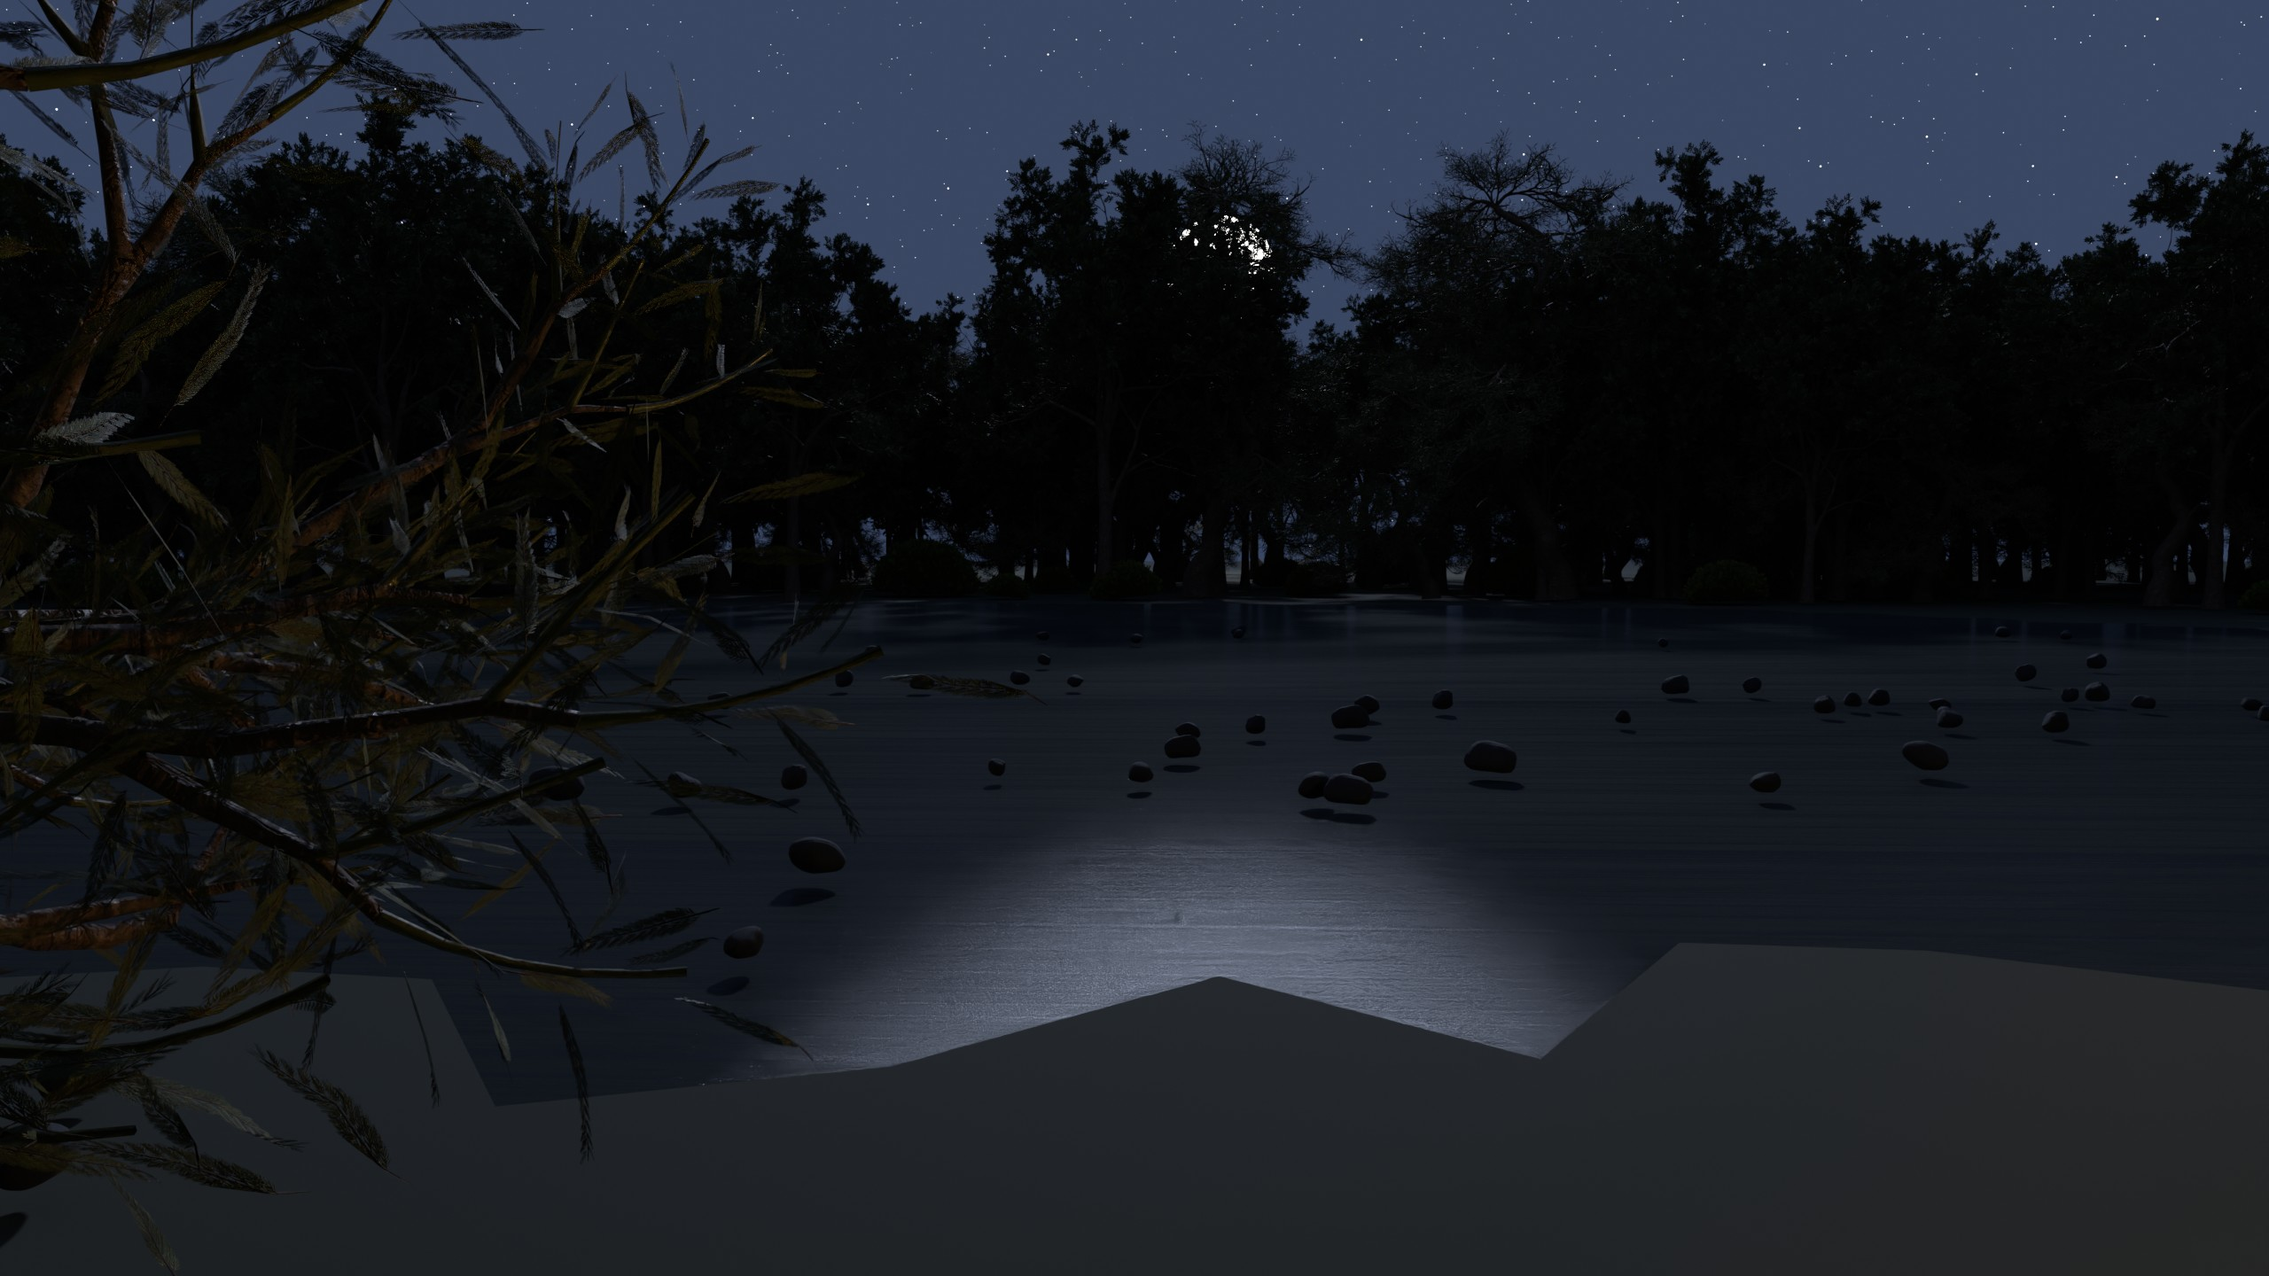
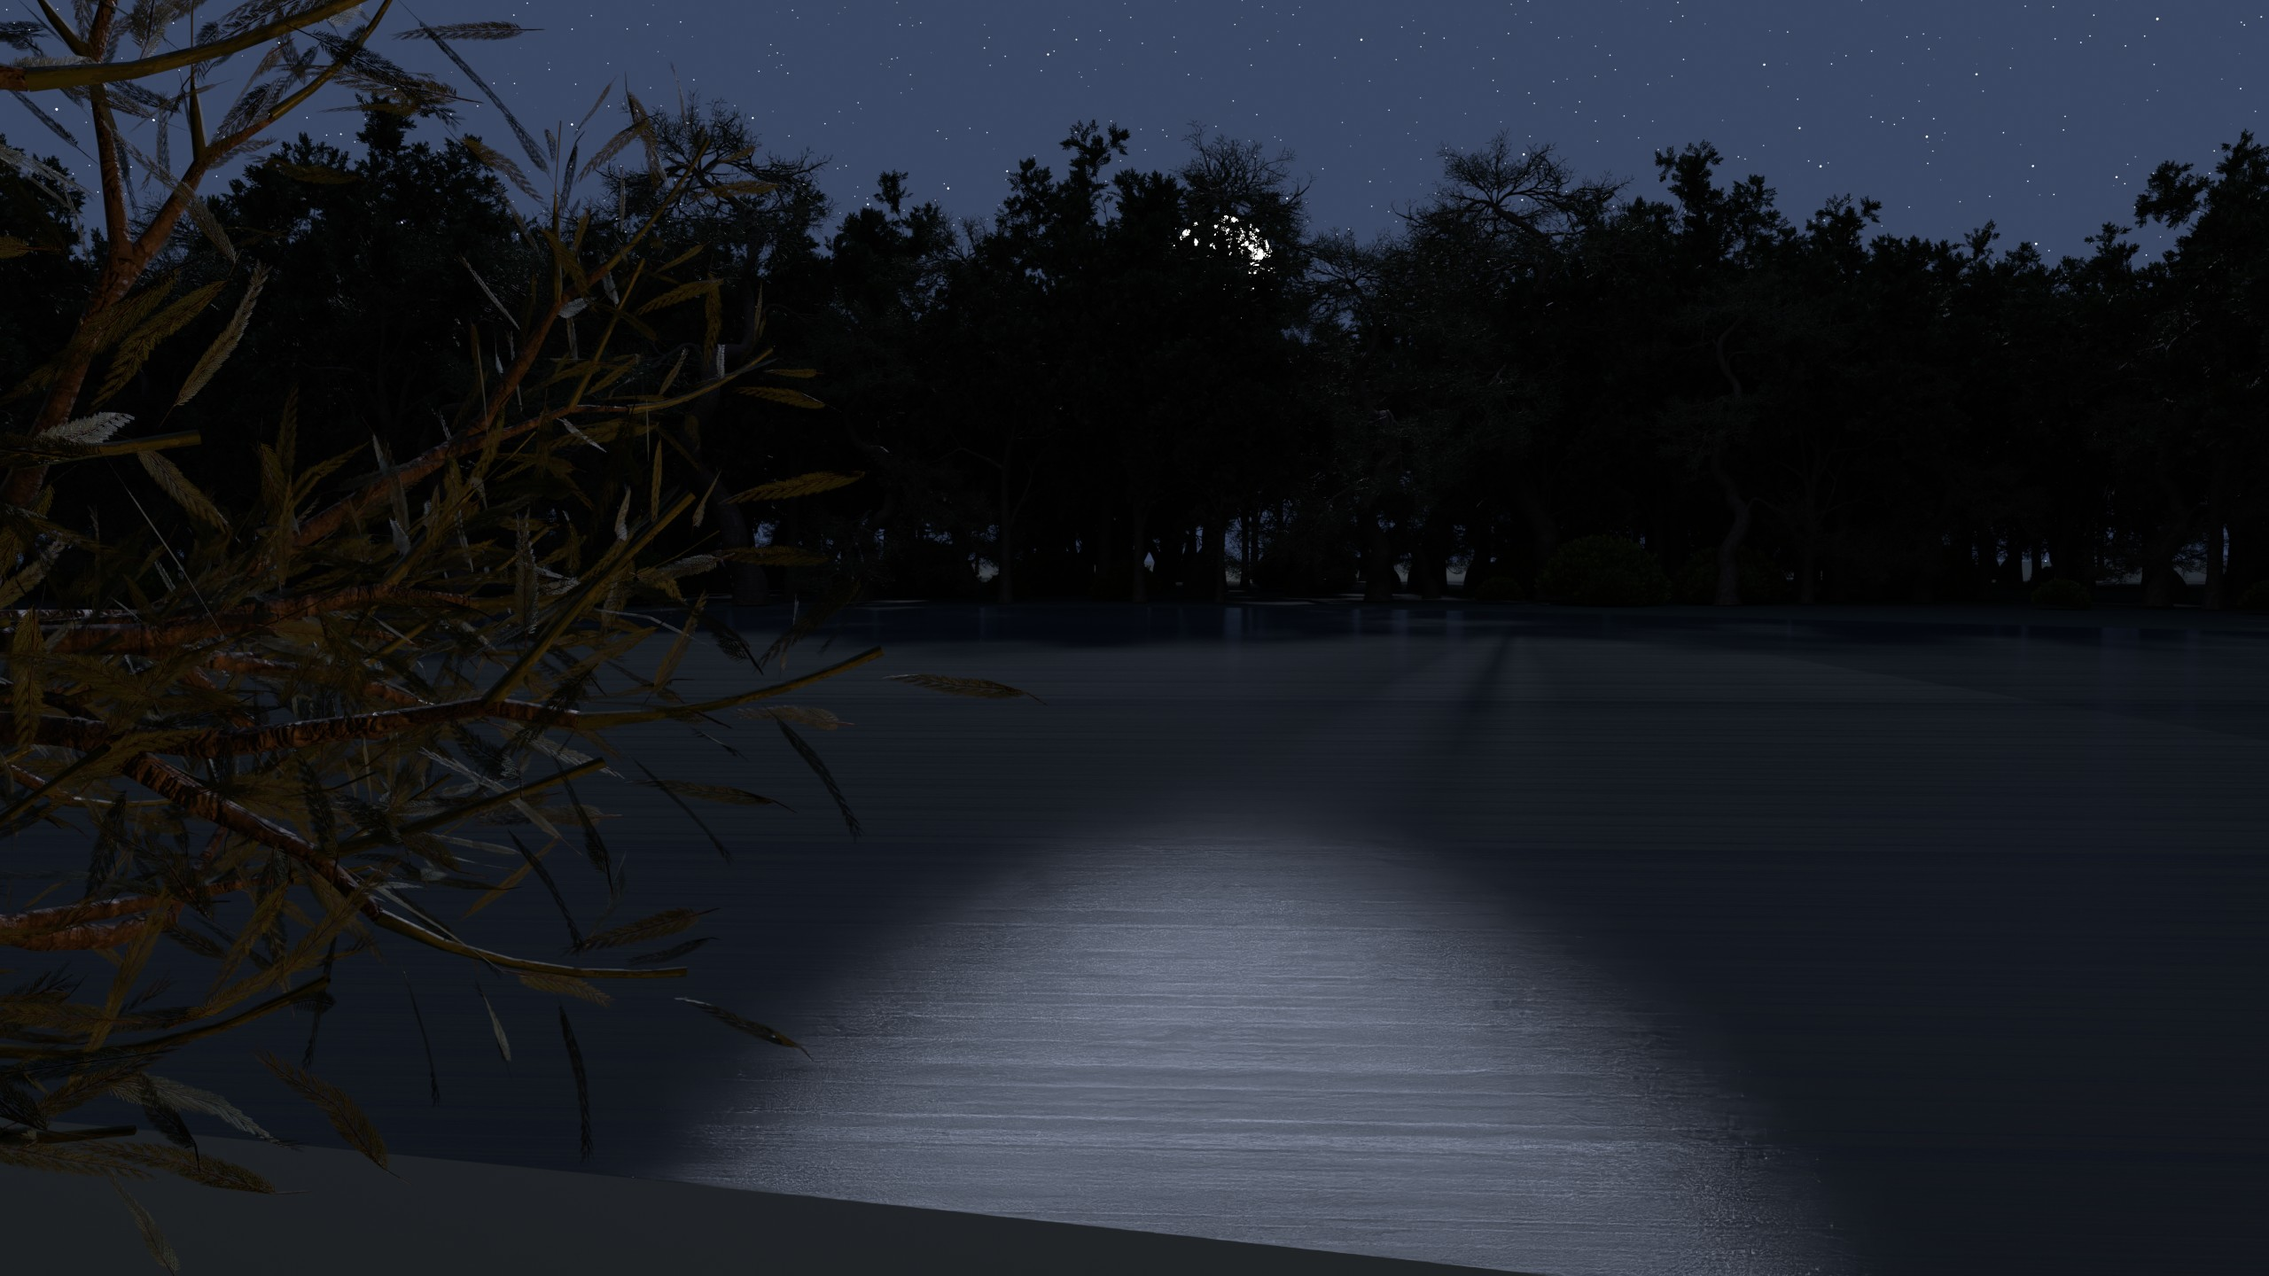
feat(cabin): 焚き火を本物の炎に・浮遊物を撤去・湖を近く＆滑らかに
要望反映:
- 焚き火を「光る三角」から実際の炎へ: 描いたRGBA炎テクスチャ(cabin_flame_texture.py)を
  カメラ正面ビルボードに貼る方式に。白熱の芯→橙→赤い炎舌、ラギッドな縁
- 浮いて見えた謎の光源・石(発光カード/オキ火球/囲み石)を全撤去。薪+炎+不可視の暖色光のみ
- 湖をさらに手前へ(水際≈0.3m=一歩)＋セグメント増・ランダムジッター廃止で汀線を滑らかに

夜6144/still/昼6144 を再レンダ(夜は既存ファイルのロック競合で初回未反映→削除して再レンダ)。
flame.png は C:\tmp に生成しJPGへ焼き込み(リポジトリはレンダ済みパノラマのみ保持)。

diff --git a/cabin.html b/cabin.html
@@ -831,96 +831,6 @@ body.immersed-med #medBar{display:flex;opacity:1;transform:translateX(-50%) tran
 #npCredit.show{opacity:.5}
 body.immersed-med #npCredit{opacity:.3}
 </style>
-  <link rel="canonical" href="https://yuichi916.github.io/cabin.html">
-  <meta property="og:title" content="森の小屋 — Cabin in the Hollow / 瞑想のための場所">
-  <meta property="og:description" content="深い森の奥、ひとつだけ灯りのともる小屋。タイマー、環境音、暖炉のゆらぎ。心を静めるための小さな場所。">
-  <meta property="og:type" content="website">
-  <meta property="og:url" content="https://yuichi916.github.io/cabin.html">
-  <meta property="og:image" content="https://yuichi916.github.io/assets/og-image.png">
-  <meta property="og:image:width" content="1200">
-  <meta property="og:image:height" content="630">
-  <meta property="og:image:type" content="image/png">
-  <meta property="og:site_name" content="Views Engineer">
-  <meta property="og:locale" content="ja_JP">
-  <meta name="twitter:card" content="summary_large_image">
-  <meta name="twitter:site" content="@ViewsEngineer">
-  <meta name="twitter:creator" content="@ViewsEngineer">
-  <meta name="twitter:title" content="森の小屋 — Cabin in the Hollow / 瞑想のための場所">
-  <meta name="twitter:description" content="深い森の奥、ひとつだけ灯りのともる小屋。タイマー、環境音、暖炉のゆらぎ。心を静めるための小さな場所。">
-  <meta name="twitter:image" content="https://yuichi916.github.io/assets/og-image.png">
-  <meta name="robots" content="index, follow, max-image-preview:large, max-snippet:-1">
-  <meta name="color-scheme" content="dark light">
-  <meta name="format-detection" content="telephone=no">
-  <link rel="apple-touch-icon" href="/favicon.svg">
-  <script type="application/ld+json">
-{
-  "@context": "https://schema.org",
-  "@graph": [
-    {
-      "@type": "WebApplication",
-      "@id": "https://yuichi916.github.io/cabin.html#app",
-      "name": "森の小屋 — Cabin in the Hollow / 瞑想のための場所",
-      "headline": "森の小屋 — Cabin in the Hollow / 瞑想のための場所",
-      "url": "https://yuichi916.github.io/cabin.html",
-      "description": "深い森の奥、ひとつだけ灯りのともる小屋。タイマー、環境音、暖炉のゆらぎ。心を静めるための小さな場所。",
-      "image": "https://yuichi916.github.io/assets/og-image.png",
-      "inLanguage": "ja",
-      "isPartOf": {
-        "@id": "https://yuichi916.github.io/#website"
-      },
-      "author": {
-        "@type": "Person",
-        "name": "Views Engineer",
-        "alternateName": "yuichi916",
-        "url": "https://yuichi916.github.io/"
-      },
-      "publisher": {
-        "@type": "Organization",
-        "name": "Views Engineer",
-        "url": "https://yuichi916.github.io/"
-      },
-      "applicationCategory": "UtilitiesApplication",
-      "operatingSystem": "Any (modern web browser)",
-      "browserRequirements": "Requires JavaScript",
-      "isAccessibleForFree": true,
-      "offers": {
-        "@type": "Offer",
-        "price": "0",
-        "priceCurrency": "JPY"
-      }
-    },
-    {
-      "@type": "WebSite",
-      "@id": "https://yuichi916.github.io/#website",
-      "url": "https://yuichi916.github.io/",
-      "name": "Views Engineer",
-      "inLanguage": "ja",
-      "publisher": {
-        "@type": "Person",
-        "name": "Views Engineer",
-        "url": "https://yuichi916.github.io/"
-      }
-    },
-    {
-      "@type": "BreadcrumbList",
-      "itemListElement": [
-        {
-          "@type": "ListItem",
-          "position": 1,
-          "name": "Home",
-          "item": "https://yuichi916.github.io/"
-        },
-        {
-          "@type": "ListItem",
-          "position": 2,
-          "name": "森の小屋 — Cabin in the Hollow / 瞑想のための場所",
-          "item": "https://yuichi916.github.io/cabin.html"
-        }
-      ]
-    }
-  ]
-}
-  </script>
 </head>
 <body>
 

diff --git a/_blender/cabin_outside_360.py b/_blender/cabin_outside_360.py
@@ -10,6 +10,10 @@ night.
   assets/cabin-outside-still.jpg     2560x1440 OGP
 
   blender -b --factory-startup --python cabin_outside_360.py -- pano|final  night|day
+
+  NB the campfire flame uses a painted RGBA billboard at C:\tmp\flame.png — regenerate it first
+  with `python _blender/cabin_flame_texture.py` (the render bakes it into the JPGs, so the repo
+  only needs the rendered panoramas, not flame.png itself).
 """
 import bpy, os, sys, math, random
 from mathutils import Vector
@@ -103,6 +107,29 @@ def make_water():
         b.inputs['Base Color'].default_value = (0.013, 0.026, 0.042, 1)
         b.inputs['Roughness'].default_value = 0.09
         b.inputs['Specular'].default_value = 0.6
+    return m
+
+def make_flame():
+    """a real flame from a painted RGBA flame texture (C:\\tmp\\flame.png) on a camera-facing billboard."""
+    m = bpy.data.materials.new('flame'); m.use_nodes = True
+    try: m.blend_method = 'BLEND'; m.shadow_method = 'NONE'
+    except Exception: pass
+    nt = m.node_tree; nodes, links = nt.nodes, nt.links
+    for n in list(nodes):
+        if n.type != 'OUTPUT_MATERIAL': nodes.remove(n)
+    out = nodes.get('Material Output') or nodes.new('ShaderNodeOutputMaterial')
+    tex = nodes.new('ShaderNodeTexImage')
+    try:
+        tex.image = bpy.data.images.load(r'C:\tmp\flame.png', check_existing=True); tex.extension = 'CLIP'
+    except Exception as e:
+        print('[flame] image load failed:', e, flush=True)
+    emis = nodes.new('ShaderNodeEmission'); emis.inputs['Strength'].default_value = 13.0
+    links.new(tex.outputs['Color'], emis.inputs['Color'])
+    transp = nodes.new('ShaderNodeBsdfTransparent'); mix = nodes.new('ShaderNodeMixShader')
+    links.new(tex.outputs['Alpha'], mix.inputs['Fac'])
+    links.new(transp.outputs['BSDF'], mix.inputs[1])
+    links.new(emis.outputs['Emission'], mix.inputs[2])
+    links.new(mix.outputs['Shader'], out.inputs['Surface'])
     return m
 
 # NB: MAT is built AFTER open_mainfile (below) — opening a .blend wipes data created before it
@@ -202,9 +229,7 @@ MAT = {
     'rock':      make_solid('m_rock',   (0.20, 0.20, 0.19) if DAY else (0.018, 0.022, 0.028), 0.85),
     'water':     make_water(),
     'moon':      make_emissive('m_moon', (1.0, 0.97, 0.90), 16.0),
-    'ember':     make_emissive('m_ember', (1.0, 0.42, 0.10), 34.0),    # glowing coals
-    'flame':     make_emissive('m_flame', (1.0, 0.66, 0.26), 46.0),    # billboard flame
-    'firestone': make_solid('m_firestone', (0.16, 0.15, 0.14) if DAY else (0.06, 0.06, 0.06), 0.9),
+    'flame':     make_flame(),     # real graded flame (cones), not a flat glowing card
 }
 
 def data_dims(data):
@@ -231,11 +256,11 @@ def organic_disc(name, cx, cy, z, rx, ry, segs, jitter, mat, seedv):
     rnd = random.Random(seedv)
     bpy.ops.mesh.primitive_circle_add(vertices=segs, radius=1.0, fill_type='NGON', location=(cx, cy, z))
     o = bpy.context.active_object; o.name = name
-    # low-frequency lobes + fine jitter so the edge reads as a real lake, not a wheel
-    ph1, ph2 = rnd.uniform(0, math.tau), rnd.uniform(0, math.tau)
+    # smooth low-frequency lobes only (gentle bays/coves) — NO per-vertex random, which makes it jagged
+    ph1, ph2, ph3 = rnd.uniform(0, math.tau), rnd.uniform(0, math.tau), rnd.uniform(0, math.tau)
     for v in o.data.vertices:
         ang = math.atan2(v.co.y, v.co.x)
-        wob = 1.0 + 0.10*math.sin(ang*3 + ph1) + 0.06*math.sin(ang*5 + ph2) + (rnd.random()-0.5)*jitter
+        wob = 1.0 + 0.11*math.sin(ang*2 + ph1) + 0.06*math.sin(ang*3 + ph2) + 0.025*math.sin(ang*5 + ph3)
         v.co.x = math.cos(ang) * rx * wob
         v.co.y = math.sin(ang) * ry * wob
         v.co.z = 0.0
@@ -243,15 +268,15 @@ def organic_disc(name, cx, cy, z, rx, ry, segs, jitter, mat, seedv):
     return o
 
 # ---- ground + a natural round forest lake, ringed by a shore you stand on ----
-LC = (0.0, 27.0)            # lake centre, out in front (+Y)
-LRX, LRY = 27.0, 23.0       # radii: spans x≈±27, y≈4..50 — a clear few-metre bank at your feet
+LC = (0.0, 23.5)            # lake centre, out in front (+Y) — pulled right up close
+LRX, LRY = 28.0, 23.2       # radii: spans x≈±28, near edge y≈0.3 (the water laps at your feet), far edge y≈47
 box('Ground', 600, 600, 0.1, (0, 0, -0.10), MAT['ground'])
 # a broad organic shore bank (pebble/grass) the lake sits inside — the 湖畔 ring all the way round
-organic_disc('ShoreBank', LC[0], LC[1], -0.07, LRX+5.0, LRY+5.0, 140, 0.10, MAT['shore'], 21)
+organic_disc('ShoreBank', LC[0], LC[1], -0.07, LRX+5.0, LRY+5.0, 200, 0.0, MAT['shore'], 21)
 # the bed, seen through the clear water by day
-organic_disc('LakeBed', LC[0], LC[1], -0.42, LRX-1.5, LRY-1.5, 96, 0.08, MAT['lakebed'], 23)
-# the water itself — a natural, slightly wavy round lake
-organic_disc('Lake', LC[0], LC[1], -0.05, LRX, LRY, 160, 0.09, MAT['water'], 11)
+organic_disc('LakeBed', LC[0], LC[1], -0.42, LRX-1.5, LRY-1.5, 150, 0.0, MAT['lakebed'], 23)
+# the water itself — a natural, smoothly-curved round lake (high segment count = no jagged rim)
+organic_disc('Lake', LC[0], LC[1], -0.05, LRX, LRY, 240, 0.0, MAT['water'], 11)
 
 # ---- the cabin you came from: a log cabin on the near-left shore, FACING you across the lake ----
 CABIN = (-25.0, 12.0)       # left bank, beside the water
@@ -279,38 +304,36 @@ box('Chimney', 0.85, 0.85, ch+1.6, (*cpos(-cw/2-0.35, 0), (ch+1.6)/2), MAT['chim
 cwl = bpy.data.lights.new('CabinGlow', 'POINT'); cwl.color = (1.0, 0.62, 0.26); cwl.energy = 90.0 if DAY else 210.0
 cwlo = bpy.data.objects.new('CabinGlow', cwl); coll.objects.link(cwlo); cwlo.location = (*cpos(0, cd/2+0.6), 1.5)
 
-# ---- a campfire on the near shore (foreground-right): logs, a stone ring, coals + flame + warm light ----
-FC = (5.5, 2.2)             # on the near bank, just in front of you and to the right; lake beyond, cabin to the left
-# the Enchanted firewood/rock materials have no local texture (would render magenta),
-# so we keep the KitBash geometry but swap on our cached wood / solid rock.
+# ---- a campfire on the near shore (foreground-right): real logs on the ground + a real flame + warm light ----
+# nothing floating: no stone ring, no glowing orb, no flat cards — just burning logs, flame, and an (invisible) light.
+FC = (4.8, 0.2)             # on the near bank just ahead-right; the water laps a step beyond it
+# the Enchanted firewood material has no local texture (would render magenta), so keep the
+# geometry but swap on our cached wood.
 def place_solid(data, loc, rotz, target_h, mat, tilt=0.0):
     o = place(data, loc, rotz, target_h, tilt)
     o.data = o.data.copy(); o.data.materials.clear(); o.data.materials.append(mat)
     return o
 if fire_datas:
-    place_solid(random.choice(fire_datas), (FC[0], FC[1], 0.0), random.uniform(0, math.tau), 0.85, MAT['cabinbeam'])
+    place_solid(random.choice(fire_datas), (FC[0], FC[1], 0.0), random.uniform(0, math.tau), 0.55, MAT['cabinbeam'])
 else:
-    for k in range(5):                 # fallback: a small log tepee
+    for k in range(5):                 # fallback: a small log tepee resting on the ground
         a = k/5*math.tau
-        box('Log%d'%k, 0.12, 0.95, 0.12, (FC[0]+math.cos(a)*0.18, FC[1]+math.sin(a)*0.18, 0.42),
-            MAT['cabinbeam'], rot=(math.radians(58), 0, a))
-for k in range(9):                     # ring of stones round the pit
-    a = k/9*math.tau; rr = 0.62
-    if rock_datas:
-        place_solid(random.choice(rock_datas), (FC[0]+math.cos(a)*rr, FC[1]+math.sin(a)*rr, 0.0),
-                    random.uniform(0, math.tau), random.uniform(0.20, 0.32), MAT['rock'])
-    else:
-        s = 0.12 + random.uniform(0, 0.05)
-        box('FireStone%d'%k, s, s, s*0.7, (FC[0]+math.cos(a)*rr, FC[1]+math.sin(a)*rr, 0.06), MAT['firestone'])
-bpy.ops.mesh.primitive_uv_sphere_add(radius=0.32, location=(FC[0], FC[1], 0.14))   # glowing coal bed
-coal = bpy.context.active_object; coal.name = 'Coals'; coal.scale = (1.0, 1.0, 0.4); coal.data.materials.append(MAT['ember'])
-for ai, a in enumerate((0.0, math.radians(45), math.radians(90), math.radians(135))):  # crossed emissive flame cards
-    box('Flame%d'%ai, 0.002, 0.46, 0.92, (FC[0], FC[1], 0.66), MAT['flame'], rot=(0, 0, a))
-fl = bpy.data.lights.new('FireLight', 'POINT'); fl.color = (1.0, 0.55, 0.20)
-fl.energy = 70.0 if DAY else 340.0
-try: fl.shadow_soft_size = 0.5
+        box('Log%d'%k, 0.10, 0.78, 0.10, (FC[0]+math.cos(a)*0.16, FC[1]+math.sin(a)*0.16, 0.22),
+            MAT['cabinbeam'], rot=(math.radians(62), 0, a))
+# the flame: a painted flame billboard standing on the logs, turned to face the viewer at the origin
+# (the outdoor scene is a skybox seen only from the centre, so one camera-facing card reads as real fire)
+FACE = math.atan2(-FC[1], -FC[0]) - math.radians(90)
+_fh, _fw = 1.5, 1.3
+bpy.ops.mesh.primitive_plane_add(size=1, location=(FC[0], FC[1], 0.24 + _fh/2))
+flm = bpy.context.active_object; flm.name = 'Flame'
+flm.scale = (_fw, _fh, 1.0)
+flm.rotation_euler = (math.radians(90), 0, FACE)
+flm.data.materials.append(MAT['flame'])
+fl = bpy.data.lights.new('FireLight', 'POINT'); fl.color = (1.0, 0.5, 0.16)
+fl.energy = 70.0 if DAY else 360.0
+try: fl.shadow_soft_size = 0.45
 except Exception: pass
-flo = bpy.data.objects.new('FireLight', fl); coll.objects.link(flo); flo.location = (FC[0], FC[1], 0.7)
+flo = bpy.data.objects.new('FireLight', fl); coll.objects.link(flo); flo.location = (FC[0], FC[1], 0.65)
 
 # ---- the forest: real trees + shrubs ringing the lake; open water fills the whole front ----
 def in_lake(x, y, m=1.0):

diff --git a/_blender/cabin_flame_texture.py b/_blender/cabin_flame_texture.py
@@ -1,0 +1,52 @@
+import numpy as np
+from PIL import Image, ImageFilter
+
+H, W = 560, 480
+rng = np.random.default_rng(11)
+
+def noise(scale):
+    h = max(2, H // scale); w = max(2, W // scale)
+    n = rng.random((h, w))
+    return np.asarray(Image.fromarray((n * 255).astype('uint8')).resize((W, H), Image.BICUBIC), dtype=float) / 255.0
+
+fbm = np.zeros((H, W)); amp = 1.0; tot = 0.0
+for s in (60, 30, 15, 8):
+    fbm += amp * noise(s); tot += amp; amp *= 0.5
+fbm /= tot
+
+yy, xx = np.mgrid[0:H, 0:W].astype(float)
+ny = yy / (H - 1); nx = (xx - (W - 1) / 2) / ((W - 1) / 2)
+up = 1.0 - ny
+
+sway = (fbm - 0.5) * 0.38 * up
+halfw = 0.92 * (1.0 - up * 0.82) + 0.04
+core = np.clip(1.0 - np.abs(nx - sway) / np.maximum(halfw, 1e-3), 0, 1)
+height_mask = np.clip((0.80 - up) / 0.80, 0, 1) ** 0.6
+vbright = np.clip(1.3 - up * 1.5, 0, 1)
+
+raw = core * (0.6 + 0.75 * fbm) * height_mask
+inten = np.clip((raw - 0.20) / 0.66, 0, 1)
+
+# saturated deep red -> orange -> yellow -> white-hot (white only low & central)
+c_red = np.array([0.80, 0.03, 0.0]); c_or = np.array([1.0, 0.30, 0.0])
+c_yl = np.array([1.0, 0.78, 0.12]);  c_wh = np.array([1.0, 0.95, 0.72])
+def lerp(a, b, t): return a + (b - a) * t[..., None]
+heat = np.clip(inten * (0.4 + 1.0 * vbright), 0, 1)
+col = lerp(c_red, c_or, np.clip(heat / 0.30, 0, 1))
+col = lerp(col, c_yl, np.clip((heat - 0.30) / 0.34, 0, 1))
+col = lerp(col, c_wh, np.clip((heat - 0.76) / 0.24, 0, 1))
+
+# opaque body, only the ragged edges / tips translucent
+alpha = np.clip(inten * 2.2, 0, 1)
+alpha[inten < 0.04] = 0.0
+
+rgba = np.zeros((H, W, 4))
+rgba[..., :3] = np.clip(col, 0, 1); rgba[..., 3] = alpha
+im = Image.fromarray((rgba * 255).astype('uint8'), 'RGBA').filter(ImageFilter.GaussianBlur(0.5))
+im.save(r'C:\tmp\flame.png')
+
+# preview over a dark background (how it will actually read at night)
+bg = Image.new('RGBA', (W, H), (12, 14, 20, 255))
+prev = Image.alpha_composite(bg, im)
+prev.save(r'C:\tmp\flame_preview.png')
+print('wrote', im.size)
